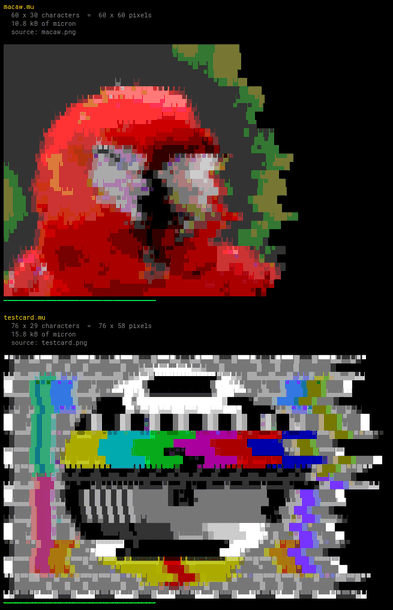
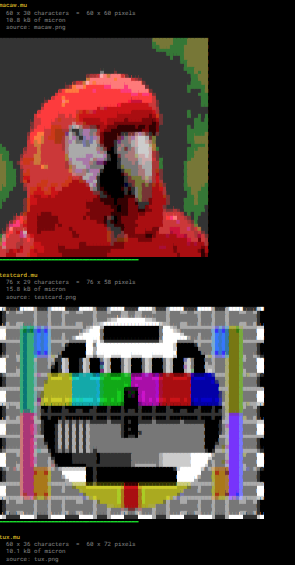
New gallery screenshot, and correct the "dense images fall apart" claim
The new shot shows three blocks rendered in MeshChatX. The file sizes are
identical to the previous screenshot, so these are byte-for-byte the same .mu
files — only the renderer changed.

That matters: the test card is now fully legible, with castellations, colour
bars, greyscale steps and gratings all readable at 76 columns. The earlier
conclusion that test cards and dense photographs "fall apart" was largely
measuring MeshChat's frayed columns, not the conversion, since fine vertical
detail is exactly what fraying destroys.

Both docs now say to judge density in a viewer that draws a straight edge
before blaming the converter.

diff --git a/README.md b/README.md
@@ -4,15 +4,15 @@
 NomadNet, MeshChat, rBrowser and web gateways will all render as an image — using nothing
 but coloured characters.
 
-![Two converted images on a NomadNet page](docs/images/imagetest-gallery.png)
+![Three converted images on a NomadNet page](docs/images/imagetest-gallery.png)
 
-*`pages/imagetest.mu` rendering two blocks. Both are made only of `▀` characters with a
-foreground and background colour — there is no image data on the page at all.*
+*`pages/imagetest.mu` rendering three converted blocks — a photograph, a test card and a
+logo. Every one is made only of `▀` characters carrying a foreground and a background
+colour; there is no image data on the page at all.*
 
-*They also illustrate the two things that decide whether this works. The macaw is **cropped
-to the head**, so at 60 × 60 pixels the eye, facial patch and beak all survive. The test card
-is dense detail edge to edge, and at a similar budget it falls apart — the colour bars read,
-the fine gratings do not. **Crop beats every converter setting.***
+*Rendered in MeshChatX, which pins its monospace cell width in CSS and so draws a straight
+right edge. These are byte-for-byte the same files that look smeared and wavy in plain
+MeshChat — see [known renderer bugs](#frayed-right-edge-and-wavy-vertical-lines).*
 
 ---
 
@@ -246,10 +246,18 @@ its place. Same photo, same budget:
 
 Crop to the single subject **before** touching `--width`.
 
-### Subject matters
+### Subject matters — but check your renderer first
 
-Low resolution suits **logos and line art**. Test cards and dense photographs fall apart —
-there simply are not enough pixels.
+Low resolution obviously suits **logos and line art** best. Dense subjects need both enough
+width *and* a renderer that does not fray.
+
+The test card in the screenshot above is a good example: at 76 columns its castellations,
+colour bars, greyscale steps and gratings are all legible in MeshChatX. The identical file
+looks like mush in plain MeshChat, where the wavering columns destroy exactly the fine
+vertical detail a test card is made of.
+
+So before concluding an image is too dense to convert, view it somewhere that renders a
+straight edge. A good deal of apparent conversion failure is renderer fraying.
 
 ### `--dither` is usually wrong
 

diff --git a/docs/PITFALLS.md b/docs/PITFALLS.md
@@ -178,7 +178,13 @@ Same photo, same 60 × 60 budget:
 Viewers magnify a 60 × 60 block to roughly 880 px, about 15×, so every pixel has to earn its
 place. **Crop to the single subject before touching `--width` or `--dither`.**
 
-Low resolution suits logos and line art. Test cards and dense photographs fall apart.
+Low resolution suits logos and line art best.
+
+**Check the renderer before blaming the conversion.** A test card converted at 76 columns is
+fully legible in MeshChatX — castellations, colour bars, greyscale steps and gratings all
+readable — while the *identical file* looks like mush in plain MeshChat, whose wavering
+columns destroy exactly the fine vertical detail such an image is made of. Judge density in a
+viewer that draws a straight edge, or you will blame the converter for a layout bug.
 
 ---
 
